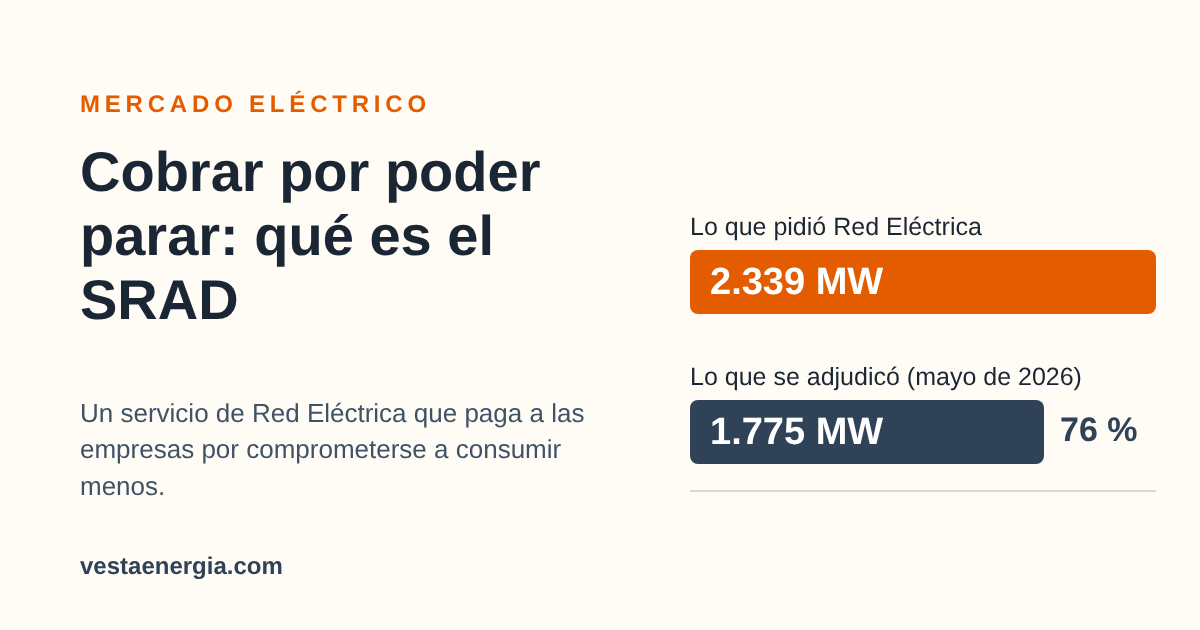
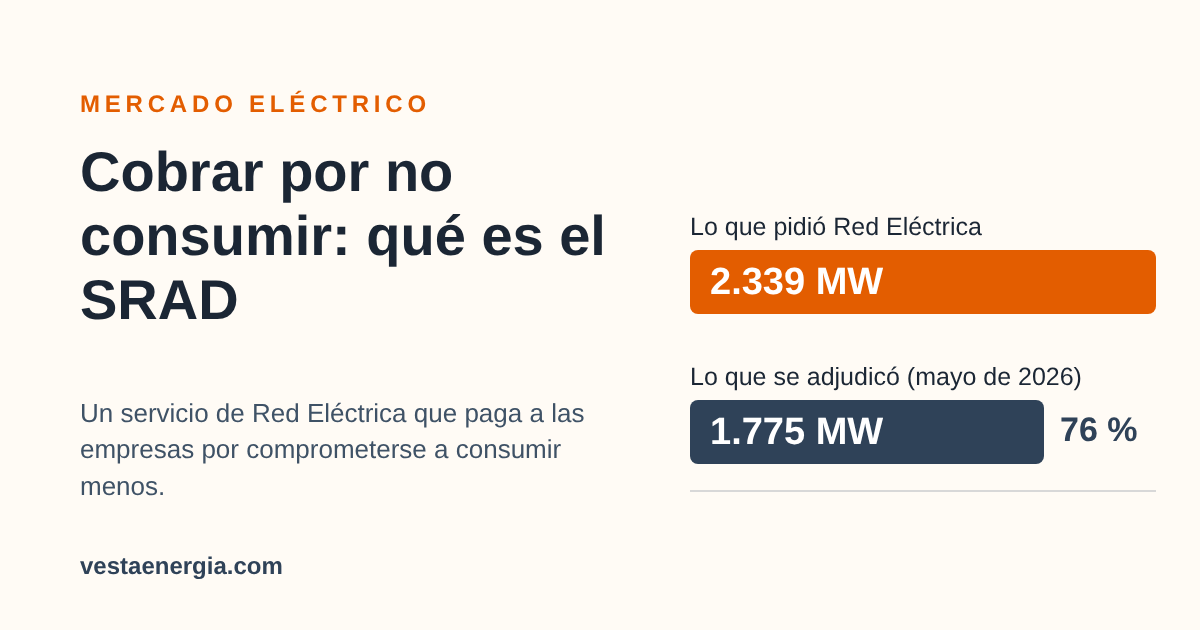
Articulo del SRAD: titulo 'Cobrar por no consumir' en ES y CA, con portadas, indices, feeds y portada
Claude-Session: https://claude.ai/code/session_014uFLNrthGSBwwqfUVwAwwD

Changed region(s): [[0.0617, 0.3317, 0.5242, 0.4222], [0.37, 0.2413, 0.4625, 0.3016], [0.3083, 0.3016, 0.3392, 0.3317]]

diff --git a/blog/srad-servicio-respuesta-activa-demanda-industria/index.html b/blog/srad-servicio-respuesta-activa-demanda-industria/index.html
@@ -3,7 +3,7 @@
 <head>
 <meta charset="UTF-8">
 <meta name="viewport" content="width=device-width, initial-scale=1.0">
-<title>Qué es el SRAD: cobrar por poder reducir tu consumo | Vesta Energia</title>
+<title>Qué es el SRAD: cobrar por no consumir | Vesta Energia</title>
 <meta name="description" content="Red Eléctrica paga a las empresas por comprometerse a consumir menos cuando el sistema anda justo. Cómo funciona el SRAD, cuánto paga y quién puede entrar.">
 <link rel="canonical" href="https://vestaenergia.com/blog/srad-servicio-respuesta-activa-demanda-industria/">
 <link rel="alternate" hreflang="es" href="https://vestaenergia.com/blog/srad-servicio-respuesta-activa-demanda-industria/">
@@ -11,7 +11,7 @@
 <link rel="alternate" hreflang="x-default" href="https://vestaenergia.com/blog/srad-servicio-respuesta-activa-demanda-industria/">
 <meta name="robots" content="index, follow">
 <meta name="theme-color" content="#101c29">
-<meta property="og:title" content="Cobrar por poder parar: qué es el SRAD y cómo funciona">
+<meta property="og:title" content="Cobrar por no consumir: qué es el SRAD y cómo funciona">
 <meta property="og:description" content="Red Eléctrica paga a las empresas por comprometerse a consumir menos cuando el sistema anda justo. El 26 de noviembre se subasta el del primer semestre de 2027.">
 <meta property="og:type" content="article">
 <meta property="og:url" content="https://vestaenergia.com/blog/srad-servicio-respuesta-activa-demanda-industria/">
@@ -22,7 +22,7 @@
 <meta property="og:image:height" content="630">
 <meta property="article:published_time" content="2026-11-12">
 <meta name="twitter:card" content="summary_large_image">
-<meta name="twitter:title" content="Cobrar por poder parar: qué es el SRAD y cómo funciona">
+<meta name="twitter:title" content="Cobrar por no consumir: qué es el SRAD y cómo funciona">
 <meta name="twitter:description" content="Red Eléctrica paga a las empresas por comprometerse a consumir menos. Cómo funciona el SRAD, cuánto paga y quién puede entrar.">
 <meta name="twitter:image" content="https://vestaenergia.com/blog/srad-servicio-respuesta-activa-demanda-industria/portada.png">
 <link rel="icon" href="/favicon.svg">
@@ -35,7 +35,7 @@
 {
   "@context":"https://schema.org",
   "@type":"BlogPosting",
-  "headline":"Cobrar por poder parar: qué es el SRAD y cómo funciona",
+  "headline":"Cobrar por no consumir: qué es el SRAD y cómo funciona",
   "description":"El SRAD es un servicio de Red Eléctrica que paga a las empresas por comprometerse a reducir su consumo hasta dos horas cuando el sistema anda justo de reservas. Cómo funciona, qué se cobra, quién puede participar y qué papel tienen las baterías. El 26 de noviembre de 2026 se subasta el servicio del primer semestre de 2027.",
   "datePublished":"2026-11-12",
   "dateModified":"2026-11-12",
@@ -54,7 +54,7 @@
   "itemListElement":[
     {"@type":"ListItem","position":1,"name":"Inicio","item":"https://vestaenergia.com/"},
     {"@type":"ListItem","position":2,"name":"Blog","item":"https://vestaenergia.com/blog/"},
-    {"@type":"ListItem","position":3,"name":"Cobrar por poder parar: qué es el SRAD y cómo funciona"}
+    {"@type":"ListItem","position":3,"name":"Cobrar por no consumir: qué es el SRAD y cómo funciona"}
   ]
 }
 </script>
@@ -79,7 +79,7 @@
   <div class="article-inner">
     <div class="crumb"><a href="/">Inicio</a> › <a href="/blog/">Blog</a> › SRAD</div>
     <span class="eyebrow">Mercado eléctrico</span>
-    <h1>Cobrar por poder parar: qué es el SRAD y cómo funciona</h1>
+    <h1>Cobrar por no consumir: qué es el SRAD y cómo funciona</h1>
     <p class="lede">Red Eléctrica paga a empresas por comprometerse a consumir menos cuando el sistema anda justo de reservas. Se llama SRAD (Servicio de Respuesta Activa de la Demanda), y el 26 de noviembre se subasta el del primer semestre de 2027. Te contamos cómo funciona, cuánto se paga, quién puede entrar y qué papel tienen las baterías, que es menor del que parece.</p>
     <div class="byline">
       <span>Por Juan Luis Serna García</span> · <span>12 de noviembre de 2026</span> · <span>7 min de lectura</span>
@@ -90,7 +90,7 @@
 <h2>Qué es el SRAD, en pocas palabras</h2>
 <p>La idea del SRAD es simple: una empresa se compromete a bajar su consumo de electricidad cuando Red Eléctrica se lo pida, y a cambio cobra. Es voluntario y funciona desde 2022.</p>
 <p>¿Por qué lo quiere Red Eléctrica? Para que la luz no falle, el sistema necesita siempre un colchón: potencia de reserva por si algo se estropea o la demanda se dispara. Si el colchón se queda corto, hay dos salidas: encender otra central o pedir a quien consume que consuma menos. El SRAD es la segunda. Según la propia Red Eléctrica, solo se usa en casos puntuales, cuando detecta que no hay reserva suficiente.</p>
-<p>Piénsalo como un seguro de disponibilidad. Cobras por tener la posibilidad de parar, aunque no te llamen. Y si te llaman, cobras además por lo que dejas de consumir.</p>
+<p>Piénsalo como un seguro de disponibilidad. Cobras por tener la posibilidad de consumir menos, aunque no te llamen. Y si te llaman, cobras además por lo que dejas de consumir.</p>
 <h2>Qué te piden</h2>
 <ul>
 <li><strong>Aviso previo:</strong> al menos 12 minutos y medio antes de empezar a reducir. Es poco tiempo: lo que hagas tiene que estar preparado de antemano.</li>

diff --git a/ca/blog/srad-servei-resposta-activa-demanda-industria/index.html b/ca/blog/srad-servei-resposta-activa-demanda-industria/index.html
@@ -3,7 +3,7 @@
 <head>
 <meta charset="UTF-8">
 <meta name="viewport" content="width=device-width, initial-scale=1.0">
-<title>Què és el SRAD: cobrar per poder reduir el teu consum | Vesta Energia</title>
+<title>Què és el SRAD: cobrar per no consumir | Vesta Energia</title>
 <meta name="description" content="Red Eléctrica paga a les empreses per comprometre's a consumir menys quan el sistema va just. Com funciona el SRAD, quant paga i qui hi pot entrar.">
 <link rel="canonical" href="https://vestaenergia.com/ca/blog/srad-servei-resposta-activa-demanda-industria/">
 <link rel="alternate" hreflang="es" href="https://vestaenergia.com/blog/srad-servicio-respuesta-activa-demanda-industria/">
@@ -11,7 +11,7 @@
 <link rel="alternate" hreflang="x-default" href="https://vestaenergia.com/blog/srad-servicio-respuesta-activa-demanda-industria/">
 <meta name="robots" content="index, follow">
 <meta name="theme-color" content="#101c29">
-<meta property="og:title" content="Cobrar per poder parar: què és el SRAD i com funciona">
+<meta property="og:title" content="Cobrar per no consumir: què és el SRAD i com funciona">
 <meta property="og:description" content="Red Eléctrica paga a les empreses per comprometre's a consumir menys quan el sistema va just. El 26 de novembre se subhasta el del primer semestre de 2027.">
 <meta property="og:type" content="article">
 <meta property="og:url" content="https://vestaenergia.com/ca/blog/srad-servei-resposta-activa-demanda-industria/">
@@ -22,7 +22,7 @@
 <meta property="og:image:height" content="630">
 <meta property="article:published_time" content="2026-11-12">
 <meta name="twitter:card" content="summary_large_image">
-<meta name="twitter:title" content="Cobrar per poder parar: què és el SRAD i com funciona">
+<meta name="twitter:title" content="Cobrar per no consumir: què és el SRAD i com funciona">
 <meta name="twitter:description" content="Red Eléctrica paga a les empreses per comprometre's a consumir menys. Com funciona el SRAD, quant paga i qui hi pot entrar.">
 <meta name="twitter:image" content="https://vestaenergia.com/ca/blog/srad-servei-resposta-activa-demanda-industria/portada.png">
 <link rel="icon" href="/favicon.svg">
@@ -35,7 +35,7 @@
 {
   "@context":"https://schema.org",
   "@type":"BlogPosting",
-  "headline":"Cobrar per poder parar: què és el SRAD i com funciona",
+  "headline":"Cobrar per no consumir: què és el SRAD i com funciona",
   "description":"El SRAD és un servei de Red Eléctrica que paga a les empreses per comprometre's a reduir el seu consum fins a dues hores quan el sistema va just de reserves. Com funciona, què es cobra, qui hi pot participar i quin paper tenen les bateries. El 26 de novembre de 2026 se subhasta el servei del primer semestre de 2027.",
   "datePublished":"2026-11-12",
   "dateModified":"2026-11-12",
@@ -54,7 +54,7 @@
   "itemListElement":[
     {"@type":"ListItem","position":1,"name":"Inici","item":"https://vestaenergia.com/"},
     {"@type":"ListItem","position":2,"name":"Blog","item":"https://vestaenergia.com/ca/blog/"},
-    {"@type":"ListItem","position":3,"name":"Cobrar per poder parar: què és el SRAD i com funciona"}
+    {"@type":"ListItem","position":3,"name":"Cobrar per no consumir: què és el SRAD i com funciona"}
   ]
 }
 </script>
@@ -79,7 +79,7 @@
   <div class="article-inner">
     <div class="crumb"><a href="/">Inici</a> › <a href="/ca/blog/">Blog</a> › SRAD</div>
     <span class="eyebrow">Mercat elèctric</span>
-    <h1>Cobrar per poder parar: què és el SRAD i com funciona</h1>
+    <h1>Cobrar per no consumir: què és el SRAD i com funciona</h1>
     <p class="lede">Red Eléctrica paga a empreses per comprometre's a consumir menys quan el sistema va just de reserves. Es diu SRAD (Servei de Resposta Activa de la Demanda), i el 26 de novembre se subhasta el del primer semestre de 2027. T'expliquem com funciona, quant es paga, qui hi pot entrar i quin paper hi tenen les bateries, que és menor del que sembla.</p>
     <div class="byline">
       <span>Per Juan Luis Serna García</span> · <span>12 de novembre de 2026</span> · <span>7 min de lectura</span>
@@ -90,7 +90,7 @@
 <h2>Què és el SRAD, en poques paraules</h2>
 <p>La idea del SRAD és simple: una empresa es compromet a baixar el seu consum d'electricitat quan Red Eléctrica ho demani, i a canvi cobra. És voluntari i funciona des del 2022.</p>
 <p>Per què ho vol Red Eléctrica? Perquè la llum no falli, el sistema necessita sempre un coixí: potència de reserva per si alguna cosa s'espatlla o la demanda es dispara. Si el coixí es queda curt, hi ha dues sortides: encendre una altra central o demanar a qui consumeix que consumeixi menys. El SRAD és la segona. Segons la mateixa Red Eléctrica, només s'usa en casos puntuals, quan detecta que no hi ha reserva suficient.</p>
-<p>Pensa-hi com una assegurança de disponibilitat. Cobres per tenir la possibilitat de parar, encara que no et cridin. I si et criden, cobres a més pel que deixes de consumir.</p>
+<p>Pensa-hi com una assegurança de disponibilitat. Cobres per tenir la possibilitat de consumir menys, encara que no et cridin. I si et criden, cobres a més pel que deixes de consumir.</p>
 <h2>Què et demanen</h2>
 <ul>
 <li><strong>Avís previ:</strong> almenys 12 minuts i mig abans de començar a reduir. És poc temps: el que facis ha d'estar preparat d'antuvi.</li>

diff --git a/index.html b/index.html
@@ -481,7 +481,7 @@ try{if(sessionStorage.getItem('vesta-on')==='1'){document.getElementById('intro'
     <div>
       <a class="hero-news" href="/blog/srad-servicio-respuesta-activa-demanda-industria/" data-href-es="/blog/srad-servicio-respuesta-activa-demanda-industria/" data-href-ca="/ca/blog/srad-servei-resposta-activa-demanda-industria/">
         <span class="hn-label"><span lang="es">Nuevo en el blog</span><span lang="ca">Nou al blog</span></span>
-        <span class="hn-title"><u><span lang="es">Cobrar por poder parar: qué es el SRAD y cómo funciona</span><span lang="ca">Cobrar per poder parar: què és el SRAD i com funciona</span></u>&nbsp;→</span>
+        <span class="hn-title"><u><span lang="es">Cobrar por no consumir: qué es el SRAD y cómo funciona</span><span lang="ca">Cobrar per no consumir: què és el SRAD i com funciona</span></u>&nbsp;→</span>
       </a>
       <span class="eyebrow">⚡ <span lang="es">Soluciones energéticas para la industria</span><span lang="ca">Solucions energètiques per a la indústria</span></span>
       <h1>
@@ -774,7 +774,7 @@ try{if(sessionStorage.getItem('vesta-on')==='1'){document.getElementById('intro'
     <div class="post-grid">
       <a class="post reveal" href="/blog/srad-servicio-respuesta-activa-demanda-industria/" data-href-es="/blog/srad-servicio-respuesta-activa-demanda-industria/" data-href-ca="/ca/blog/srad-servei-resposta-activa-demanda-industria/">
         <div class="post-meta"><span class="post-tag"><span lang="es">Mercado eléctrico</span><span lang="ca">Mercat elèctric</span></span><span><span lang="es">12 de noviembre de 2026</span><span lang="ca">12 de novembre de 2026</span></span></div>
-        <h3><span lang="es">Cobrar por poder parar: qué es el SRAD y cómo funciona</span><span lang="ca">Cobrar per poder parar: què és el SRAD i com funciona</span></h3>
+        <h3><span lang="es">Cobrar por no consumir: qué es el SRAD y cómo funciona</span><span lang="ca">Cobrar per no consumir: què és el SRAD i com funciona</span></h3>
         <p><span lang="es">Red Eléctrica paga a las empresas por comprometerse a consumir menos. Cómo funciona, cuánto se cobra y qué papel tienen las baterías.</span><span lang="ca">Red Eléctrica paga a les empreses per comprometre's a consumir menys. Com funciona, quant es cobra i quin paper hi tenen les bateries.</span></p>
         <span class="post-more"><span lang="es">Leer el análisis</span><span lang="ca">Llegir l'anàlisi</span> →</span>
       </a>

diff --git a/blog/index.html b/blog/index.html
@@ -73,7 +73,7 @@
         <span>·</span>
         <span>7 min</span>
       </div>
-      <h2>Cobrar por poder parar: qué es el SRAD y cómo funciona</h2>
+      <h2>Cobrar por no consumir: qué es el SRAD y cómo funciona</h2>
       <p>Red Eléctrica paga a las empresas por comprometerse a consumir menos cuando el sistema anda justo. El 26 de noviembre se subasta el del primer semestre de 2027. Cómo funciona, cuánto paga y qué pasa con las baterías.</p>
       <span class="post-more">Leer el análisis →</span>
     </a>

diff --git a/ca/blog/index.html b/ca/blog/index.html
@@ -73,7 +73,7 @@
         <span>·</span>
         <span>7 min</span>
       </div>
-      <h2>Cobrar per poder parar: què és el SRAD i com funciona</h2>
+      <h2>Cobrar per no consumir: què és el SRAD i com funciona</h2>
       <p>Red Eléctrica paga a les empreses per comprometre's a consumir menys quan el sistema va just. El 26 de novembre se subhasta el del primer semestre de 2027. Com funciona, quant paga i què passa amb les bateries.</p>
       <span class="post-more">Llegir l'anàlisi →</span>
     </a>
